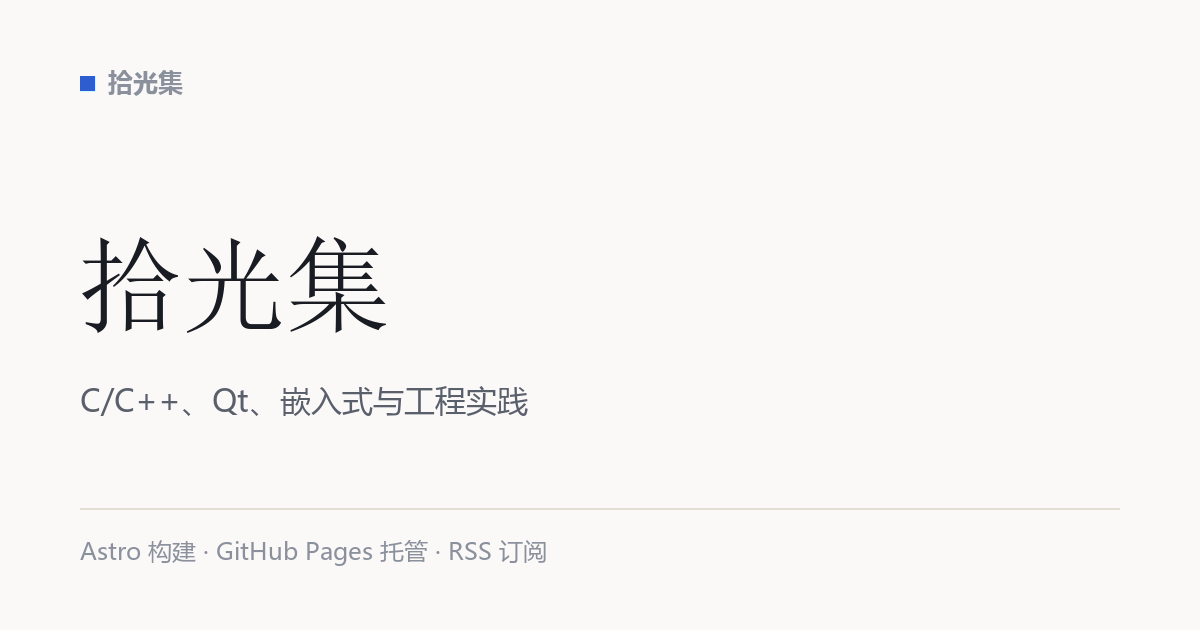
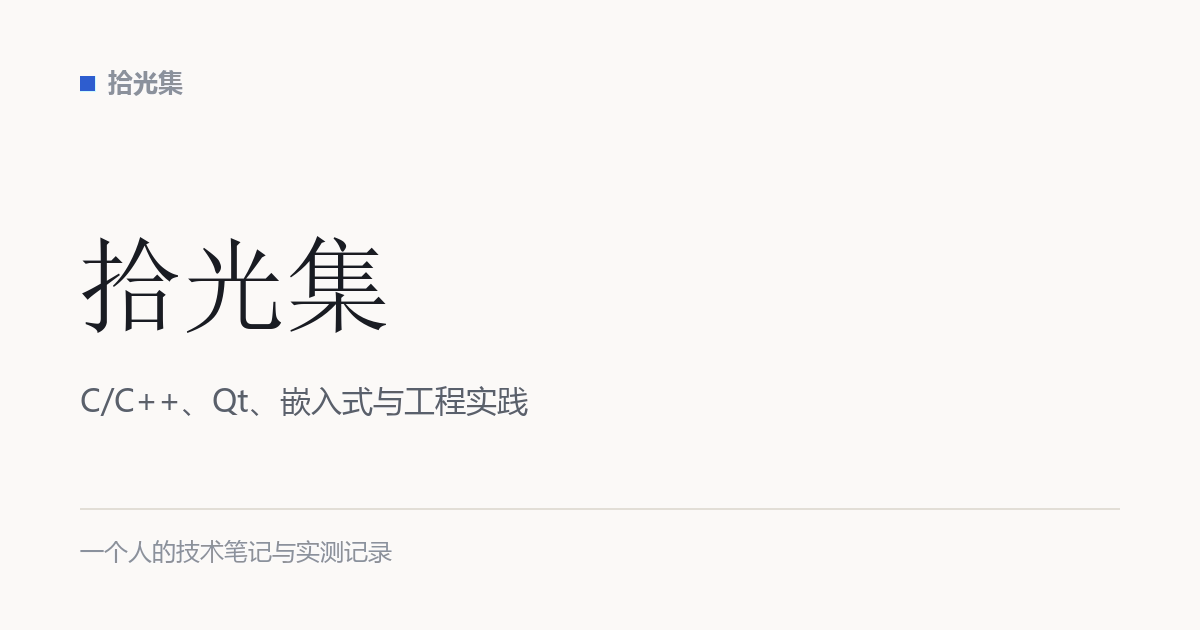
chore: 清理面向读者的搭建元信息——页脚/关于页/meta 描述/OG 图去掉构建与托管信息，两篇建站文章转草稿

Changed region(s): [[0.0617, 0.8444, 0.4625, 0.9048]]

diff --git a/src/config.ts b/src/config.ts
@@ -2,7 +2,7 @@ export const SITE = {
   title: '拾光集',
   tagline: 'C/C++、Qt、嵌入式与工程实践',
   description:
-    '按章节地图推进的技术笔记：C 语言、C++、数据结构、并发、Qt 6、Windows/Win32、Linux、操作系统、网络、嵌入式、数据库、构建与调试。基于 Astro 构建，部署在 GitHub Pages。',
+    '按章节地图推进的技术笔记：C 语言、C++、数据结构、并发、Qt 6、Windows/Win32、Linux、操作系统、网络、嵌入式、数据库、构建与调试。',
   author: 'wty',
   // 首页每页文章数
   postsPerPage: 8,

diff --git a/design/og-source.html b/design/og-source.html
@@ -72,8 +72,8 @@
       <p>一个人的技术笔记与生活记录 · Astro 构建，GitHub Pages 托管</p>
     </div>
     <div class="foot">
-      <span><b>your-domain.com</b></span>
-      <span>Markdown · RSS · 深浅色主题</span>
+      <span><b>wty.blogs.abrdns.com</b></span>
+      <span>一个人的技术笔记与实测记录</span>
     </div>
   </body>
 </html>

diff --git a/src/content/posts/hello-github-pages.md b/src/content/posts/hello-github-pages.md
@@ -3,6 +3,7 @@ title: 开篇：为什么还要自己写一个博客
 description: 在公众号、小红书、各种信息流之外，一个自己拥有域名的静态站点仍然值得拥有。
 date: 2026-10-14
 tags: [博客, 建站]
+draft: true
 ---
 
 这个站是 2026 年 10 月重建的。之前我在几个平台上写过东西，最后都因为「平台不是我控制的」而放弃了：一次是 API 改版把导出功能砍掉，一次是内容因为关键词被折叠，读者根本搜不到。
